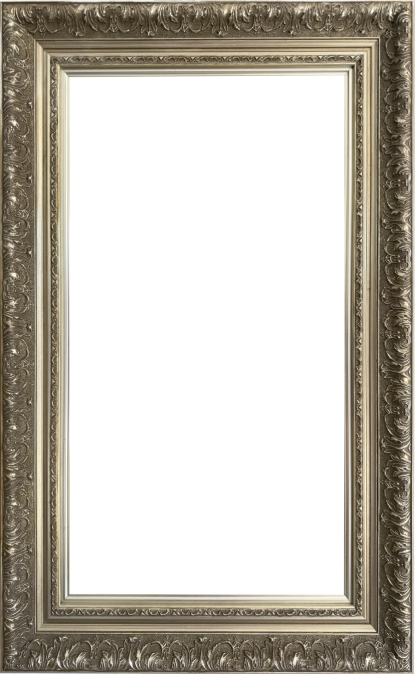
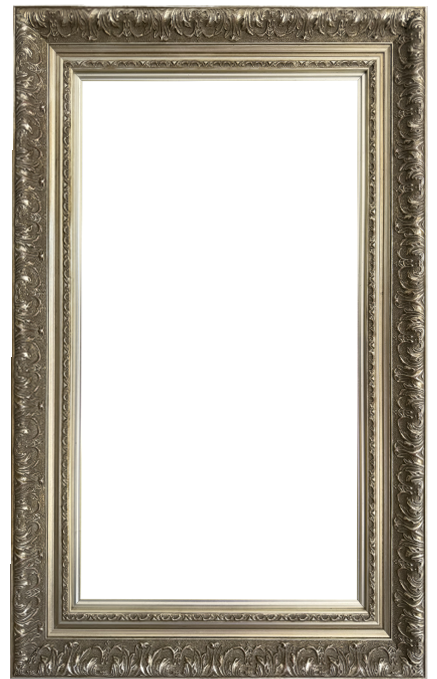
fix: perspective-correct new frame image, update CSS insets

diff --git a/www/samsung-epaper-card.js b/www/samsung-epaper-card.js
@@ -529,16 +529,16 @@ class SamsungEpaperCard extends HTMLElement {
         .frame-wrap {
           position:relative;
           width:220px;
-          aspect-ratio:416/674;
+          aspect-ratio:437/679;
         }
         .frame-overlay {
           position:absolute; top:0; left:0; width:100%; height:100%;
-          background:url('/local/frame.png?v=6') center/contain no-repeat;
+          background:url('/local/frame.png?v=7') center/contain no-repeat;
           z-index:2; pointer-events:none;
         }
         .frame-inner {
           position:absolute;
-          top:9%; bottom:9.5%; left:14.5%; right:15%;
+          top:10%; bottom:10%; left:16.5%; right:16%;
           overflow:hidden; background:#000;
           z-index:1;
         }
